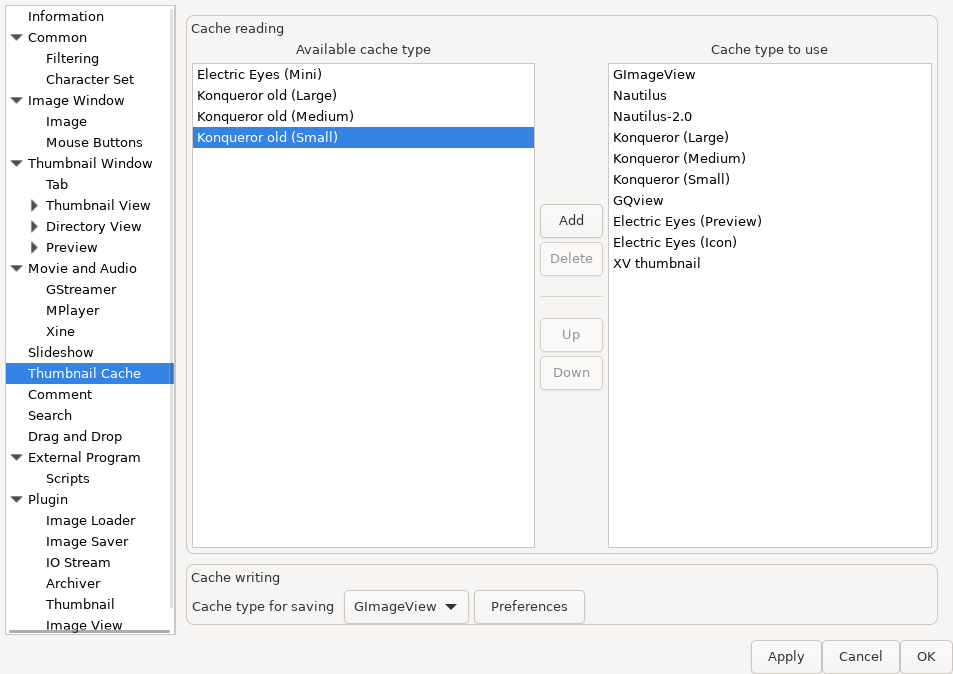
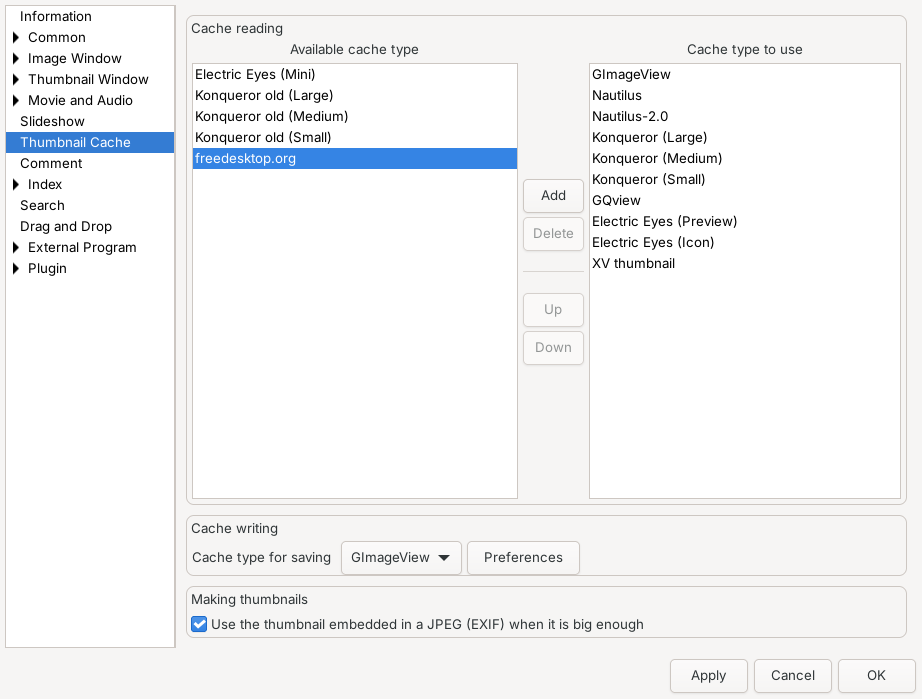
Manual: pictures of the index preferences, the status bar in the FAQ, the history
The pages of [Preferences | Index] get a picture each, and Common and
Thumbnail Cache are taken again (the scrollbars, freedesktop.org, the
EXIF thumbnail).  The screenshots are taken in /home/user, so they
show ~/Pictures and no test paths.  The FAQ describes the status bar
of this version, and the history lists the changes since 2026-09-26.

diff --git a/doc/ja/gimv_history.html b/doc/ja/gimv_history.html
@@ -28,6 +28,95 @@
 <div class="titlepage"><div><h2 class="title" style="clear: both">
 <a name="gimv_history"></a>10. GImageView 更新履歴</h2></div></div>
 <pre class="screen">
+2026-11-04: Version 0.2.27+gtk4 (GTK 4 版) 2026-09-26 以降の変更
+    o プログラム中の英語のメッセージやメニューの綴り・言い回しを修正
+      (Faild -&gt; Failed，Tool -&gt; Tools など)．名前が変わったメニュー項目の
+      ~/.gimv/keyaccelrc のキー設定は自動で引き継ぐ
+    o 設定ウィンドウなどの「適用」「キャンセル」「了解」ボタンを翻訳
+    o 他の言語の環境でもヘルプの文書 (日本語) を表示
+    o 表示 &gt; レイアウト，ウィンドウ構成を配置の絵のボタンで表示 (ツール
+      チップに名前とショートカットキー)
+    o GStreamer 用の動画プラグインを追加．イメージビューで動画・音声を再生
+      し (再生できる形式はインストールされている GStreamer のプラグインに
+      よる)，動画のサムネイルも作る．動画のデフォルト表示モードを設定して
+      いなければ，これが使われる
+    o アーカイブを lha，unzip，rar，tar などの外部コマンドではなく libarchive
+      で読むようにした．7z，tar.xz，tar.zst にも対応．古い zip・lha の
+      Shift_JIS のファイル名も変換して表示する
+    o ボタンにデスクトップのアイコンテーマのアイコンを使うようにした (設定 &gt;
+      一般 &gt; 外観)．アイコンセット (gimvrc の iconset=，~/.gimv/icons/&lt;名前&gt;)
+      に PNG・SVG も使える
+    o ツール &gt; 壁紙に設定 で選択した画像をデスクトップの壁紙にする (Xfce，
+      GNOME，KDE Plasma，MATE，Cinnamon，LXDE/LXQt，feh．「このデスクトップ」
+      は使用中のデスクトップを自動で選ぶ)．その他の形式やアーカイブ内の
+      画像は ~/.gimv/wallpaper に PNG で保存して使う
+    o 動画プレーヤに再生時間と全体の時間を表示．再生中の動画をクリックして
+      も次のファイルに移らないようにした
+    o 上下逆 (トップダウン) の BMP と CMYK の JPEG を読めるようにした
+    o 印刷機能を追加 (GTK の印刷ダイアログ)．イメージウィンドウとサムネイル
+      ウィンドウの ファイル &gt; 印刷... (Ctrl+P．サムネイルは選択した画像を
+      1 枚ずつ印刷)，右クリックメニューの 印刷...．印刷ダイアログの「画像」
+      タブで，用紙に合わせるか解像度 (dpi) 指定か，用紙の向きに合わせた回転，
+      ファイル名の印刷を選べる
+    o 動画のシークバーにマウスを乗せると，その位置の画面と時間を表示
+      (GStreamer プレーヤ．音声は時間のみ)
+    o 透過画像の透明部分を市松模様で表示 (表示 &gt; 透過部分を市松模様で表示．
+      右クリックメニューと 設定 &gt; イメージウィンドウ &gt; 背景 にもある)．
+      オフにすると従来どおり背景色と合成する
+    o 設定 &gt; 動画と音声 に連続再生の ON/OFF を追加
+    o 設定 &gt; 動画と音声 で，動画・音声の再生中にマウスの「次/前の画像」
+      「拡大縮小」「回転」「スクロール」を無効にできるようにした (初期値は
+      オフ．マウスの設定どおりに動く)
+    o サムネイルビューでディレクトリ名の後に "/" を付けて表示
+    o アーカイブ内の動画・音声を再生できるようにした (先に展開する．以前は
+      「Resource not found」になっていた)
+    o 詳細表示の「画像サイズ」を，画像を読み込む前でもファイルのヘッダから
+      表示 (gdk-pixbuf の形式と JPEG)．画像を開いてサイズが分かった時も更新．
+      ヘッダは一覧を表示した後に裏で順に読む
+    o 画像ごとに回転した向きを覚え，次に開いた時に復元 (~/.gimv/comment の
+      コメントファイルに保存．コメント編集画面には出ない)．設定 &gt; イメージ
+      ウィンドウ &gt; 画像 で ON/OFF
+    o HTML マニュアルに画面の画像を追加．メニュー・ツールバー・マウス
+      メニュー・設定・キーバインドの説明をこの版に合わせて変更
+    o マウスボタンの設定で，サイドボタンの「戻る」(ボタン 8) と「進む」
+      (ボタン 9) にも機能を割り当てられるようにした (初期値はなし)
+    o 英語のマニュアル (HTML) とテキスト文書をヘルプメニューに追加．文書のない
+      言語 (日本語以外) では英語の文書を表示
+    o 配色 (設定 &gt; 一般 &gt; 外観) を追加．デスクトップのテーマ・ライト・ダーク
+      から選ぶ．デスクトップのテーマの場合，GTK 4 が読めない暗いテーマ
+      (gtk-4.0 ディレクトリがないもの．Greybird-dark など) は暗い Adwaita で
+      表示．黒い線だけの GImageView 独自のアイコンは，暗い配色では明るい線で
+      表示
+    o ファイルオープンダイアログの「選択したファイルのサムネイル」で，選択
+      したフォルダもフォルダごとのタブで開けるようにした
+    o 画像の索引 (SQLite) を追加．[設定 &gt; 索引] のディレクトリの画像の日付と
+      タグを gimv-indexer が裏で登録．サイドの「日付」「タグ」タブから結果の
+      タブで開く．タグはサムネイルビューから付けてコメントファイルに保存，F2
+      で名前の変更・統合．フォルダ・カメラ・形の自動タグ，新しい画像のデスク
+      トップ通知，[ツール &gt; 行方不明の画像...] で行方不明になった画像のコメン
+      トを処理
+    o 顔と人物 (OpenCV 4.8，YuNet と SFace のモデル)．gimv-faces が顔を見つけ
+      てまとめる．「人物」タブ，顔の一覧ウィンドウ (名前付け，推測，名前のない
+      グループ，人物のタグ)，イメージビューの顔のパネル (P．手で顔を追加も
+      可)．名前は「人物/名前」のタグとしてコメントファイルにも保存
+    o [ツール &gt; 画像を検索...] を追加．索引の画像をタグ・人物名 (かつ・除く)
+      と撮影日で検索し，見つかった画像のタグで絞り込む．検索条件は名前を付け
+      て保存できる
+    o サムネイル: freedesktop.org のキャッシュ (~/.cache/thumbnails) の読み
+      書き．別スレッドで作り，JPEG は十分な大きさなら EXIF の縮小画像を使う．
+      EXIF の向きと，手で回転・反転した向きに合わせる
+    o 一覧の行を Ctrl+F で検索 (ディレクトリビュー，詳細表示，データタブ，
+      設定，索引のタブなど)
+    o ステータスバー: フォーカスのある画像のパス・位置・サイズ，複数選択時は
+      枚数と合計サイズ
+    o データタブ: 画像ファイル自体に書かれたコメント (JPEG，PNG，GIF，MAG) を
+      斜体で表示．画像のタグも表示
+    o イメージビュー: 画像をクリップボードにコピー (Shift+Ctrl+C)，左右反転
+      (X．回転とともに記憶)，フォルダを開く
+    o スクロールバーを常に表示 (設定．初期値はオン)
+    o GtkTreeView など GTK 4.10 で非推奨の API を使わないようにした
+      (GtkListView / GtkColumnView)．GTK 4.12 と GLib 2.72 が必要
+
 2026-09-26: Version 0.2.27+gtk4 (GTK 4 版)
     o GTK 4 に移植．ビルドは Meson に変更
     o Susie プラグインへの対応を削除

diff --git a/doc/en/gimv_history.html b/doc/en/gimv_history.html
@@ -28,6 +28,105 @@
 <div class="titlepage"><div><h2 class="title" style="clear: both">
 <a name="gimv_history"></a>10. GImageView History</h2></div></div>
 <pre class="screen">
+2026-11-04: Version 0.2.27+gtk4 (GTK 4 version), changes since 2026-09-26
+    o Corrected spelling and wording of the English messages and menus
+      (Faild -&gt; Failed, Buttton, Thumnail, Tool -&gt; Tools, ...); old key
+      bindings in ~/.gimv/keyaccelrc for renamed menu items are migrated.
+      po/gimageview.pot regenerated (tools/po-update.py).
+    o Dialog buttons (OK, Cancel, Apply, ...) are translated again.
+    o Help &gt; Document shows the (Japanese) documents in other locales too.
+    o View &gt; Layout and Window Composition show pictures of the layouts
+      (a row of icon buttons; name and shortcut in the tooltip).
+    o New GStreamer movie plugin: plays movies and audio in the image view
+      (the formats depend on the installed GStreamer plugins) and makes
+      movie thumbnails.  It is the default player when no default view
+      mode for movies is set.
+    o Archives are read with libarchive instead of running lha, unzip, rar
+      and tar; 7z, tar.xz and tar.zst are supported too, Shift_JIS file
+      names in old zip/lha archives are converted.
+    o Buttons use the icons of the desktop icon theme (Preferences &gt;
+      Common &gt; Appearance); icon sets (iconset= in gimvrc, ~/.gimv/icons/&lt;name&gt;)
+      may contain PNG and SVG files.
+    o Tools &gt; Set as Wallpaper sets the selected image as the desktop
+      wallpaper (Xfce, GNOME, KDE Plasma, MATE, Cinnamon, LXDE/LXQt, feh;
+      "This Desktop" picks the running one).  Other formats and images in
+      archives are converted to PNG in ~/.gimv/wallpaper.
+    o The movie player shows the elapsed and the total time; a click on a
+      playing movie no longer moves on to the next file.
+    o Top-down BMP and CMYK JPEG files are loaded.
+    o Printing (GTK print dialog): File &gt; Print... (Ctrl+P) in the image
+      window and the thumbnail window (selected images, one per page), and
+      Print... in the popup menus.  The "Image" tab of the print dialog
+      chooses fit to the page or a resolution in dpi, turning the image to
+      the page orientation, and printing the file name.
+    o Movie seek bar: pointing at it shows the frame and the time there
+      (GStreamer player; the time only for audio).
+    o Transparent images are shown over a checkerboard (View &gt;
+      Checkerboard Behind Transparency, also in the popup menu and in
+      Preferences &gt; Image Window &gt; Background); off blends them with the
+      background colour as before.
+    o Preferences &gt; Movie and Audio: continuous play on/off.
+    o Preferences &gt; Movie and Audio: optionally ignore mouse actions for
+      next/previous image, zoom, rotation and scrolling while a movie or
+      audio file plays (off by default: the mouse settings apply).
+    o Thumbnail view: directory names end with "/" in all view modes.
+    o Movies and audio files in archives can be played (they are extracted
+      first; before, the player reported "Resource not found").
+    o Detail view: the image size is read from the file header (formats
+      of gdk-pixbuf, and JPEG) instead of "Unknown" until the image was
+      loaded; it is also updated when an image is opened.  The sizes are
+      read in the background after the list is shown.
+    o The rotation of each image is remembered (kept in its comment file
+      under ~/.gimv/comment, hidden in the comment editor) and restored
+      when it is opened again; Preferences &gt; Image Window &gt; Image.
+    o The HTML manual (Japanese) has screenshots, and its descriptions of
+      the menus, toolbars, mouse menus, preferences and key bindings were
+      changed to match this version.
+    o Mouse button preferences: the side buttons "back" (button 8) and
+      "forward" (button 9) can be assigned (nothing by default).
+    o English manual (HTML) and English plain text documents in the Help
+      menu; they are shown for every language that has no documents of its
+      own (only Japanese has).
+    o Color scheme (Preferences &gt; Common &gt; Appearance): the desktop theme,
+      light or dark.  With the desktop theme, a dark theme that GTK 4
+      cannot read (no gtk-4.0 directory, e.g. Greybird-dark) is shown with
+      the dark Adwaita.  Icons of GImageView drawn only with black lines
+      are drawn with light lines in dark colors.
+    o File open dialog: "Thumbnails of the selected files" also opens the
+      selected folders, each in a tab of its own.
+    o Image index (SQLite): gimv-indexer keeps the dates and tags of the
+      images of the directories given in Preferences &gt; Index, in the
+      background.  The "Date" and "Tag" tabs of the side notebook open
+      them in a result tab; tags are edited from the thumbnail view and
+      kept in the comment files, renamed and merged with F2; automatic
+      tags (folder, camera, shape); desktop notices of new images; Tools &gt;
+      Missing Images... for the comments of images that went missing.
+    o Faces and people (OpenCV 4.8, YuNet and SFace models): gimv-faces
+      finds faces and groups them; the "People" tab, the faces window
+      (naming, guesses, unnamed groups, tags of people) and the faces
+      panel of the image view (P), where a face can also be added by hand.
+      The names are kept in the comment files as "person/NAME" tags.
+    o Tools &gt; Search Images...: images of the index by tags and names
+      (and, not), by the date taken, narrowed by the tags of the images
+      found; searches can be kept by name.
+    o Thumbnails: the freedesktop.org cache (~/.cache/thumbnails) is read
+      and written; thumbnails are made in worker threads, from the EXIF
+      thumbnail of a JPEG when it is big enough; they are turned and
+      flipped by the EXIF orientation and by the rotation and flip the
+      user gave the image.
+    o Lists: Ctrl+F searches the rows (directory view, detail view, Data
+      tab, preferences, index tabs, ...).
+    o Status bar: the path, position and size of the focused image, or
+      the number and total size of the images selected.
+    o Data tab: the comments written in the image file itself (JPEG, PNG,
+      GIF, MAG) are shown in italics, and the tags of the image.
+    o Image view: Copy the Image to the Clipboard (Shift+Ctrl+C), Flip
+      Horizontally (X, remembered with the rotation), Open the Folder.
+    o Scrollbars are always shown (a preference, on by default).
+    o GtkTreeView and the other API deprecated in GTK 4.10 are no longer
+      used (GtkListView / GtkColumnView); GTK 4.12 and GLib 2.72 are
+      required.
+
 2026-09-26: Version 0.2.27+gtk4 (GTK 4 version)
     o Ported to GTK 4, built with Meson
     o Removed the support for Susie plugins

diff --git a/doc/ja/06.html b/doc/ja/06.html
@@ -33,7 +33,7 @@
 <div class="sect2">
 <div class="titlepage"><div><h3 class="title">
 <a name="06-01"></a>6.1. 一般</h3></div></div>
-<div class="figure"><img src="images/prefs_general.png" width="756" height="698" alt="[設定 | 一般] (既定の設定)">
+<div class="figure"><img src="images/prefs_general.png" width="775" height="699" alt="[設定 | 一般] (既定の設定)">
 <p class="caption">[設定 | 一般] (既定の設定)</p></div>
 <div class="variablelist"><dl>
 <dt><span class="term"><a name="File_Open_Window"></a>ファイルを開くウィンドウ</span></dt>
@@ -653,7 +653,7 @@ GTK 4 版では、コメントの「題名」と「コメント」(メモ欄の 
 <div class="sect2">
 <div class="titlepage"><div><h3 class="title">
 <a name="06-06"></a>6.6. サムネイルキャッシュ</h3></div></div>
-<div class="figure"><img src="images/prefs_cache.png" width="756" height="698" alt="[設定 | サムネイルキャッシュ] (既定の設定)">
+<div class="figure"><img src="images/prefs_cache.png" width="775" height="699" alt="[設定 | サムネイルキャッシュ] (既定の設定)">
 <p class="caption">[設定 | サムネイルキャッシュ] (既定の設定)</p></div>
 <p class="para">
 キャッシュについて、読込、書込のファイル形式を指定します。
@@ -805,23 +805,38 @@ GImageView が検索する、プラグインのディレクトリパスを指定
 <dt><span class="term"><a name="Index_dirs"></a>索引</span></dt>
 <dd><p class="para">
 「画像の索引を作り、日付で見られるようにする」と「索引を作るディレクトリ」です。指定したディレクトリの下の画像が索引の対象になります。
-</p></dd>
+</p>
+<div class="figure"><img src="images/prefs_index.png" width="775" height="699" alt="[設定 | 索引]">
+<p class="caption">[設定 | 索引]</p></div>
+</dd>
 <dt><span class="term"><a name="Index_newimg"></a>索引 | 新しい画像</span></dt>
 <dd><p class="para">
 新しい画像をデスクトップに通知するかどうか、まとめて通知するまでの待ち時間、通知の最小間隔、通知の表示時間、通知しないフォルダです。通知の出る場所は、デスクトップの通知の設定によります。
-</p></dd>
+</p>
+<div class="figure"><img src="images/prefs_index_newimg.png" width="775" height="699" alt="[設定 | 索引 | 新しい画像]">
+<p class="caption">[設定 | 索引 | 新しい画像]</p></div>
+</dd>
 <dt><span class="term"><a name="Index_auto"></a>索引 | 自動タグ</span></dt>
 <dd><p class="para">
 自動で付けるタグの種類 (フォルダ名、カメラ、形) と、タグにしないフォルダ名 (「*」は任意の文字列、「?」は任意の 1 文字。大文字と小文字は区別しません) です。カメラや形をオンにすると全ての画像を読み直すので、画像が多いと時間がかかります。
-</p></dd>
+</p>
+<div class="figure"><img src="images/prefs_index_auto.png" width="775" height="699" alt="[設定 | 索引 | 自動タグ]">
+<p class="caption">[設定 | 索引 | 自動タグ]</p></div>
+</dd>
 <dt><span class="term"><a name="Index_faces"></a>索引 | 顔</span></dt>
 <dd><p class="para">
 顔を認識するフォルダ (索引を作るディレクトリの中) と、モデルファイルの場所です。モデルファイルが見つからない場合は、置き場所と入手先 (URL) を表示します。顔の認識が使える場合だけの項目です。
-</p></dd>
+</p>
+<div class="figure"><img src="images/prefs_index_faces.png" width="775" height="699" alt="[設定 | 索引 | 顔]">
+<p class="caption">[設定 | 索引 | 顔]</p></div>
+</dd>
 <dt><span class="term"><a name="Index_missing"></a>索引 | 行方不明の画像</span></dt>
 <dd><p class="para">
 コメント (タグ) の付いた画像が見つからなくなったときのログを、いくつ残すかです (0 は作りません)。
-</p></dd>
+</p>
+<div class="figure"><img src="images/prefs_index_missing.png" width="775" height="699" alt="[設定 | 索引 | 行方不明の画像]">
+<p class="caption">[設定 | 索引 | 行方不明の画像]</p></div>
+</dd>
 </dl></div>
 </div>
 </div>

diff --git a/doc/en/06.html b/doc/en/06.html
@@ -33,7 +33,7 @@ This section describes the items of the preferences dialog.
 <div class="sect2">
 <div class="titlepage"><div><h3 class="title">
 <a name="06-01"></a>6.1. Common</h3></div></div>
-<div class="figure"><img src="images/prefs_general.png" width="953" height="674" alt="[Preferences | Common] (default settings)">
+<div class="figure"><img src="images/prefs_general.png" width="922" height="699" alt="[Preferences | Common] (default settings)">
 <p class="caption">[Preferences | Common] (default settings)</p></div>
 <div class="variablelist"><dl>
 <dt><span class="term"><a name="File_Open_Window"></a>File Open Window</span></dt>
@@ -649,7 +649,7 @@ When "Use specified color" is checked, the background of the slideshow is painte
 <div class="sect2">
 <div class="titlepage"><div><h3 class="title">
 <a name="06-06"></a>6.6. Thumbnail Cache</h3></div></div>
-<div class="figure"><img src="images/prefs_cache.png" width="953" height="674" alt="[Preferences | Thumbnail Cache] (default settings)">
+<div class="figure"><img src="images/prefs_cache.png" width="922" height="699" alt="[Preferences | Thumbnail Cache] (default settings)">
 <p class="caption">[Preferences | Thumbnail Cache] (default settings)</p></div>
 <p class="para">
 The file formats of the thumbnail cache for reading and writing.
@@ -801,23 +801,38 @@ The image index (<a href="02.html#02-02">2.2</a>) and face recognition (<a href=
 <dt><span class="term"><a name="Index_dirs"></a>Index</span></dt>
 <dd><p class="para">
 "Index images by date" and "Directories to index": the images below these directories are indexed.
-</p></dd>
+</p>
+<div class="figure"><img src="images/prefs_index.png" width="922" height="699" alt="[Preferences | Index]">
+<p class="caption">[Preferences | Index]</p></div>
+</dd>
 <dt><span class="term"><a name="Index_newimg"></a>Index | New Images</span></dt>
 <dd><p class="para">
 Whether new images are notified on the desktop, how long they are gathered into one notification, the interval between two notifications, how long one is shown, and the folders not to notify. Where the notifications appear is set in the desktop's notification settings.
-</p></dd>
+</p>
+<div class="figure"><img src="images/prefs_index_newimg.png" width="922" height="699" alt="[Preferences | Index | New Images]">
+<p class="caption">[Preferences | Index | New Images]</p></div>
+</dd>
 <dt><span class="term"><a name="Index_auto"></a>Index | Automatic Tags</span></dt>
 <dd><p class="para">
 The kinds of automatic tags (folder name, camera, shape) and the folder names not made tags ("*" matches any letters, "?" one; capitals and small letters are the same). Turning the camera or the shape on reads every image again, which takes long with many images.
-</p></dd>
+</p>
+<div class="figure"><img src="images/prefs_index_auto.png" width="922" height="699" alt="[Preferences | Index | Automatic Tags]">
+<p class="caption">[Preferences | Index | Automatic Tags]</p></div>
+</dd>
 <dt><span class="term"><a name="Index_faces"></a>Index | Faces</span></dt>
 <dd><p class="para">
 The folders to find faces in (inside the directories to index), and where the model files are. When they are not found, where to put them and where to get them (URLs) are shown. Only with face recognition.
-</p></dd>
+</p>
+<div class="figure"><img src="images/prefs_index_faces.png" width="922" height="699" alt="[Preferences | Index | Faces]">
+<p class="caption">[Preferences | Index | Faces]</p></div>
+</dd>
 <dt><span class="term"><a name="Index_missing"></a>Index | Missing Images</span></dt>
 <dd><p class="para">
 How many logs of the images with comments (tags) that went missing are kept (0: none).
-</p></dd>
+</p>
+<div class="figure"><img src="images/prefs_index_missing.png" width="922" height="699" alt="[Preferences | Index | Missing Images]">
+<p class="caption">[Preferences | Index | Missing Images]</p></div>
+</dd>
 </dl></div>
 </div>
 </div>

diff --git a/doc/en/gimv_faq.html b/doc/en/gimv_faq.html
@@ -83,23 +83,14 @@ If you change the key bindings, only you know how it will behave. Please do this
 <div class="titlepage"><div><h3 class="title">
 <a name="gimv_faq_03"></a>8.3. Thumbnail Window</h3></div></div>
 <div class="variablelist"><dl>
-<dt><span class="term"><a name="gimv_faq_03-01"></a>What does &quot;**/** files&quot; shown in the status bar mean?</span></dt>
+<dt><span class="term"><a name="gimv_faq_03-01"></a>What is shown in the status bar?</span></dt>
 <dd><p class="para">
-It is the total number of files open in GImageView and the number of images in the displayed tab. It is also how many image files there are under that directory.
+From the left: the full path of the focused image (&quot;~&quot; for the home directory), its position in the tab (&quot;10 / 16&quot;) and its file size. With several images selected, their number and their total size (&quot;5 selected  812 kB&quot;). At the right end, the state of the image index (&quot;Index: 28 images&quot; and so on; the details are in the tooltip) and the &quot;Notices&quot; button (<a href="02.html#statusbar">2.5</a>).
 </p></dd>
-<dt><span class="term"><a name="gimv_faq_03-02"></a>What does &quot;**/** kB&quot; shown in the status bar mean?</span></dt>
+<dt><span class="term"><a name="gimv_faq_03-02"></a>Where are the numbers of files, the total size and the tab number of the older versions?</span></dt>
 <dd><p class="para">
-It is the total size of the files open in GImageView and the total size of the images in the displayed tab. It lets you know how much disk space the files directly under that directory use.
+In the GTK 4 version, the status bar shows only the image in hand; the numbers of files, the total sizes and the tab numbers of all the tabs (&quot;**/** files&quot;, &quot;**/** kB&quot;, &quot;**/** page&quot;) are no longer shown. The number of images in the tab is the second number of the position (&quot;10 / 16&quot;). A right click on the tabs shows the list of the open tabs.
 </p></dd>
-<dt><span class="term"><a name="gimv_faq_03-03"></a>What does &quot;**/** page&quot; shown in the status bar mean?</span></dt>
-<dd>
-<p class="para">
-It is the total number of tabs open in GImageView and the number of the currently displayed tab. You can see how many tabs are open now and which tab is the open one.
-</p>
-<p class="para">
-The deeper the hierarchy of the opened directory, the more characters a tab has. Depending on the hierarchy, it can happen that &quot;only one tab can be shown on the screen&quot;. In such a case, you can grasp the whole picture from the numbers in the status bar. The numbers are 1 for the leftmost tab, followed by 2, 3, 4... When you close a tab, the numbers increase or decrease automatically.
-</p>
-</dd>
 <dt><span class="term"><a name="gimv_faq_03-04"></a>How do I use the input entry on the right of the toolbar?</span></dt>
 <dd>
 <p class="para">
@@ -140,7 +131,7 @@ Right-click on the tab area. A list of the currently open tabs is shown. You can
 </p></dd>
 <dt><span class="term"><a name="gimv_faq_04-02"></a>Stopping the full path display on tabs</span></dt>
 <dd><p class="para">
-Uncheck &quot;Show full path&quot; in <span class="emphasis"><i>[Preferences | Thumbnail Window | Tab]</i></span>. Only the directory name will be shown on the tab. The full path of the open tab is then shown in the status bar, so check it there.
+Uncheck &quot;Show full path&quot; in <span class="emphasis"><i>[Preferences | Thumbnail Window | Tab]</i></span>. Only the directory name will be shown on the tab. The full path of a tab is then shown in its tooltip.
 </p></dd>
 <dt><span class="term"><a name="gimv_faq_04-03"></a>What is a collection tab?</span></dt>
 <dd>

diff --git a/doc/ja/changelog.html b/doc/ja/changelog.html
@@ -22,7 +22,8 @@
 </div>
 <div class="revhistory">
 <b>改訂履歴</b><pre>* 2026-11-04 shitamo<br>- 画像の索引，顔と人物，画像の検索，一覧の検索 (Ctrl+F)，サムネイルの節を追加
-- メニュー，マウスメニュー，設定，キーバインドをこの版に合わせて更新</pre>
+- メニュー，マウスメニュー，設定，キーバインドをこの版に合わせて更新
+- 設定の索引のページの画像を追加．FAQ のステータスバーの説明と更新履歴を更新</pre>
 <pre>* 2026-10-07 shitamo<br>- GImageView 0.2.27+gtk4 (GTK 4 版) に合わせて更新．画面の画像を追加</pre>
 <pre>* 2002-09-23 Nyan2<br>- add 0.2.5 changelog</pre>
 <pre>* 2002-08-14 Nyan2<br>- for GImageView version 2002-07-10 CVS</pre>

diff --git a/doc/en/changelog.html b/doc/en/changelog.html
@@ -22,7 +22,8 @@
 </div>
 <div class="revhistory">
 <b>Revision History</b><pre>* 2026-11-04 shitamo<br>- added the sections on the image index, faces and people, searching images, searching lists (Ctrl+F) and thumbnails
-- menus, mouse menus, preferences and key bindings updated for this version</pre>
+- menus, mouse menus, preferences and key bindings updated for this version
+- pictures of the index pages of the preferences; the status bar in the FAQ and the history updated</pre>
 <pre>* 2026-10-07 shitamo<br>- for GImageView 0.2.27+gtk4 (the GTK 4 port), with screenshots; English translation</pre>
 <pre>* 2002-09-23 Nyan2<br>- add 0.2.5 changelog</pre>
 <pre>* 2002-08-14 Nyan2<br>- for GImageView version 2002-07-10 CVS</pre>
